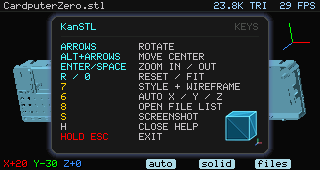
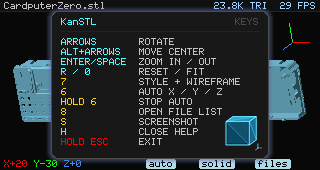
Stop auto-rotate by holding 6
A short tap still cycles off / X / Y / Z, but the cycle now happens on
release so a 0.6 s hold can stop auto-rotate immediately, without stepping
through the remaining modes. The help overlay lists the new gesture.

diff --git a/src/main.cpp b/src/main.cpp
@@ -498,6 +498,10 @@ int runInteractive(const Options& options) {
     auto last_keepalive = now;
     auto esc_pressed = now;
     bool esc_down = false;
+    auto auto_pressed = now;
+    bool auto_down = false;
+    bool auto_hold_handled = false;
+    constexpr auto kAutoHold = std::chrono::milliseconds(600);
     bool exit_prompt_visible = false;
     double last_render_seconds = 0.0;
     constexpr auto kExitHold = std::chrono::milliseconds(3000);
@@ -584,6 +588,31 @@ int runInteractive(const Options& options) {
         return true;
     };
 
+    auto cycleAutoMode = [&]() {
+        AutoRotateMode next = AutoRotateMode::Off;
+        if (auto_mode == AutoRotateMode::Off) {
+            next = AutoRotateMode::X;
+        } else if (auto_mode == AutoRotateMode::X) {
+            next = AutoRotateMode::Y;
+        } else if (auto_mode == AutoRotateMode::Y) {
+            next = AutoRotateMode::Z;
+        }
+
+        // X and Y start face-on. Z starts with the model Z axis horizontal
+        // so the roll is visible as a real 3D spin.
+        if (next == AutoRotateMode::X || next == AutoRotateMode::Y) {
+            camera.yaw_deg = 0.0f;
+            camera.pitch_deg = 0.0f;
+            camera.roll_deg = 0.0f;
+        } else if (next == AutoRotateMode::Z) {
+            camera.yaw_deg = 90.0f;
+            camera.pitch_deg = 0.0f;
+            camera.roll_deg = 0.0f;
+        }
+        auto_mode = next;
+        dirty = true;
+    };
+
     auto handleViewerPress = [&](Key key) {
         if (key == Key::Reset) {
             camera = home_camera;
@@ -596,28 +625,10 @@ int runInteractive(const Options& options) {
                 mesh, camera, activeViewport(canvas, options.no_ui));
             dirty = true;
         } else if (key == Key::Auto) {
-            AutoRotateMode next = AutoRotateMode::Off;
-            if (auto_mode == AutoRotateMode::Off) {
-                next = AutoRotateMode::X;
-            } else if (auto_mode == AutoRotateMode::X) {
-                next = AutoRotateMode::Y;
-            } else if (auto_mode == AutoRotateMode::Y) {
-                next = AutoRotateMode::Z;
-            }
-
-            // X and Y start face-on. Z starts with the model Z axis horizontal
-            // so the roll is visible as a real 3D spin.
-            if (next == AutoRotateMode::X || next == AutoRotateMode::Y) {
-                camera.yaw_deg = 0.0f;
-                camera.pitch_deg = 0.0f;
-                camera.roll_deg = 0.0f;
-            } else if (next == AutoRotateMode::Z) {
-                camera.yaw_deg = 90.0f;
-                camera.pitch_deg = 0.0f;
-                camera.roll_deg = 0.0f;
-            }
-            auto_mode = next;
-            dirty = true;
+            // A tap cycles the modes on release; holding stops auto-rotate.
+            auto_pressed = std::chrono::steady_clock::now();
+            auto_down = true;
+            auto_hold_handled = false;
         } else if (key == Key::Style) {
             auto nextStyle = [](RenderMode current) {
                 switch (current) {
@@ -657,6 +668,8 @@ int runInteractive(const Options& options) {
         } else if (key == Key::Files) {
             help = false;
             mode = AppMode::Browser;
+            auto_down = false;
+            auto_hold_handled = false;
             browser.reload();
             if (!current_path.empty()) {
                 browser.selectPath(current_path);
@@ -771,6 +784,12 @@ int runInteractive(const Options& options) {
                         }
                         // Always repaint so the prompt disappears immediately.
                         dirty = true;
+                    } else if (mode == AppMode::Viewer && key == Key::Auto) {
+                        // Short tap cycles auto X/Y/Z; the hold path already
+                        // stopped auto-rotate while the key was down.
+                        auto_down = false;
+                        if (!auto_hold_handled) cycleAutoMode();
+                        auto_hold_handled = false;
                     } else if ((mode == AppMode::Viewer &&
                                 isViewerRepeatable(key)) ||
                                (mode == AppMode::Browser &&
@@ -782,6 +801,14 @@ int runInteractive(const Options& options) {
         }
 
         now = std::chrono::steady_clock::now();
+        if (auto_down && !auto_hold_handled &&
+            now - auto_pressed >= kAutoHold) {
+            auto_hold_handled = true;
+            if (auto_mode != AutoRotateMode::Off) {
+                auto_mode = AutoRotateMode::Off;
+                dirty = true;
+            }
+        }
         if (esc_down) {
             const auto held = now - esc_pressed;
             if (held >= kExitHold) {

diff --git a/src/ui.cpp b/src/ui.cpp
@@ -266,7 +266,7 @@ void drawUi(Canvas& canvas, const UiState& state) {
 
     // Help overlay: rounded elevated panel with a drop shadow.
     const int panel_w = 218;
-    const int panel_h = 138;
+    const int panel_h = 148;
     const int radius = 8;
     const int px = (w - panel_w) / 2;
     const int py = (h - panel_h) / 2;
@@ -294,6 +294,7 @@ void drawUi(Canvas& canvas, const UiState& state) {
         {"R / 0", "RESET / FIT", Theme::kAccent},
         {"7", "STYLE + WIREFRAME", 0xFE60},
         {"6", "AUTO X / Y / Z", 0xFE60},
+        {"HOLD 6", "STOP AUTO", 0xFE60},
         {"8", "OPEN FILE LIST", 0xFE60},
         {"S", "SCREENSHOT", 0xFE60},
         {"H", "CLOSE HELP", Theme::kTextBright},

diff --git a/docs/DESIGN.md b/docs/DESIGN.md
@@ -162,7 +162,8 @@ Space        zoom out
 R            reset view and center
 0            fit projected bounds to the viewport and recenter
 7            cycle solid / edges / matcap / wireframe
-6            cycle auto-rotate off / X pitch / Y yaw / Z horizontal-axis roll
+6            cycle auto-rotate off / X pitch / Y yaw / Z horizontal-axis roll;
+             hold 0.6 s to stop auto-rotate
 8            open the file list (under the on-screen pill)
 S            screenshot to ~/kanstl_screenshot_NNN.png
 H            help overlay
@@ -179,7 +180,9 @@ and over the UI overlays.
 
 The bottom edge has no bar background: the axis readout and three pills float
 directly over the render. The axis text gets a one-pixel dark drop shadow for
-contrast. The pills are an auto-rotate toggle at x=161 (`auto`, `auto x`,
+contrast. A tap on `6` cycles the auto modes on key release; holding it for
+0.6 s stops auto-rotate while the key is still down. The pills are an
+auto-rotate toggle at x=161 (`auto`, `auto x`,
 `auto y`, `auto z`; mint green when running) under the `6` key, a render-style
 button at x=217 (`solid`, `edges`, `matcap` or `wire`) under the `7` key, and a
 `files` button at x=273 under the `8` key. `8` opens the file browser. The 3D

diff --git a/README.md b/README.md
@@ -26,7 +26,8 @@ wireframe toggle, rotate/zoom, and an in-app file browser.
 - `7` cycles solid / edges / matcap / wireframe; the bottom pill shows the
   current style
 - `6` cycles auto-rotate off / X pitch / Y yaw / Z model-axis roll (the Z
-  axis is held horizontal); the tab turns mint green when active
+  axis is held horizontal); the tab turns mint green when active, and holding
+  the key for 0.6 s stops the rotation
 - Wireframe mode included in the `7` render-style cycle
 - Arrow keys rotate, `Alt` + arrows move the rotation center
 - `Enter` / `Space` zoom, `R` / `0` reset the view and center
@@ -176,7 +177,7 @@ facet data itself is intact.
 | `R` | Reset view and center |
 | `0` | Fit the model to fill the viewport and recenter |
 | `7` | Cycle solid / edges / matcap / wireframe |
-| `6` | Cycle auto-rotate off / X / Y / Z |
+| `6` | Cycle auto-rotate off / X / Y / Z; hold 0.6 s to stop |
 | `8` | Open the file list |
 | `S` | Save a numbered `~/kanstl_screenshot_NNN.png` |
 | `H` | Help overlay |
